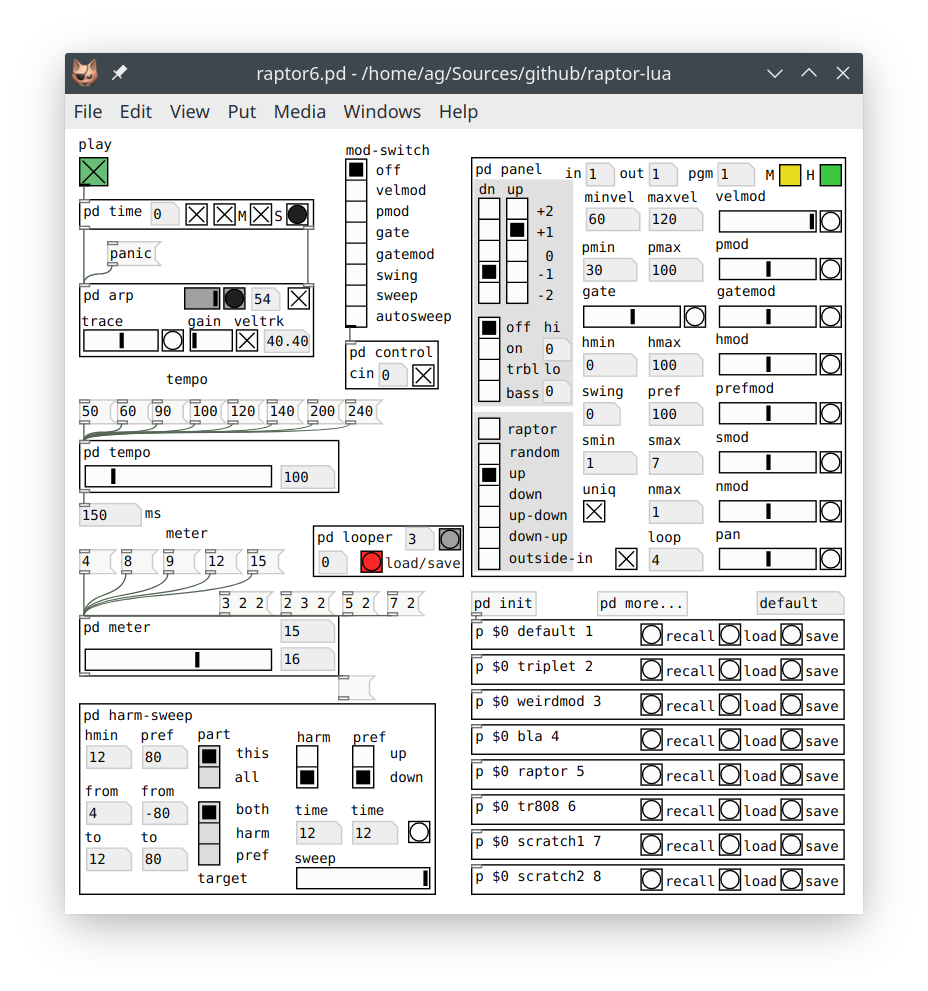
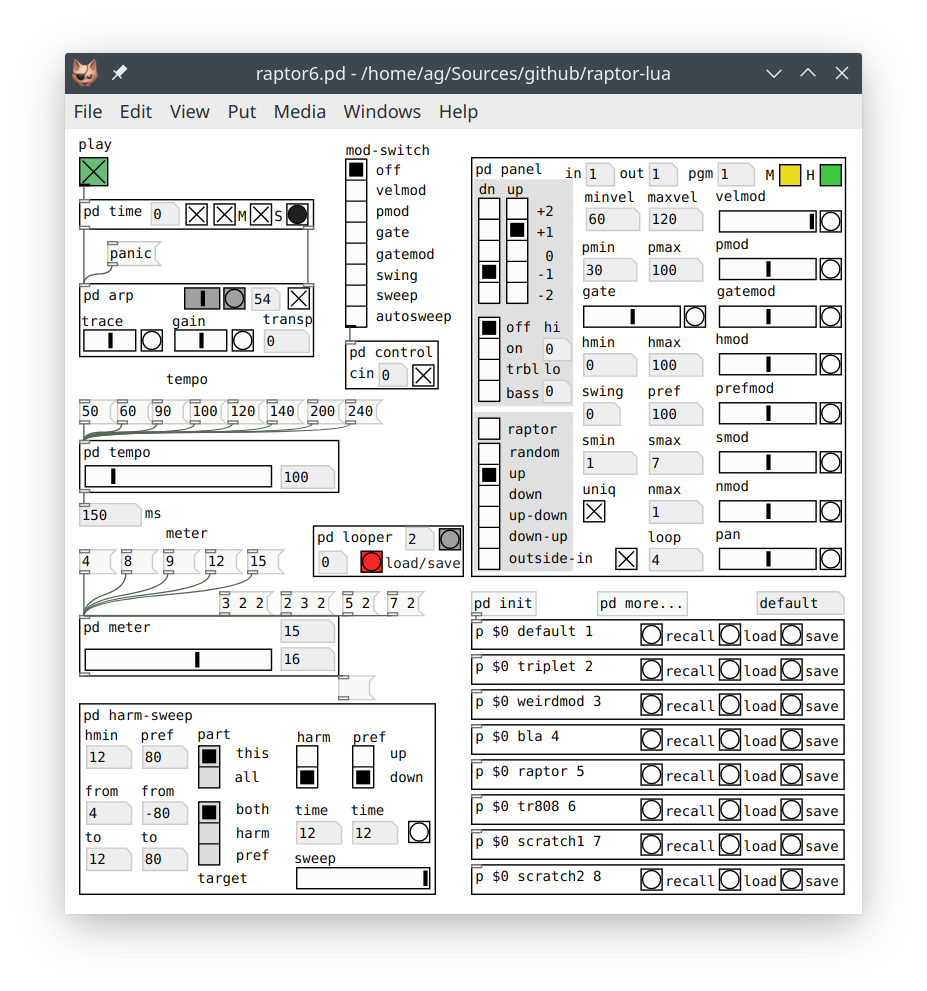
Update documentation.

diff --git a/README.md b/README.md
@@ -31,15 +31,19 @@ Before we go into Raptor's MIDI controls, let's have a quick look at some import
 
 First, in the main patch there's the `mod-switch` control (saved in the patch) which assigns some PACER controls to various different parameters for hands-free operation. Most related controls can be found in the `panel` subpatch; the most prominent of these are the yellow mute toggle (labeled `M`) which mutes the arpeggiator (stops all note output), and the green hold toggle (labeled `H`) which holds all note input in memory, so that the arpeggiator keeps playing the same pattern while this toggle is engaged. These are mostly intended for live control and automation, so they both have MIDI bindings (CC64 and CC67). Of course, you can also operate them in the GUI, but their state is neither saved in the patch nor in presets.
 
-The `mod-switch` control goes into the `control` subpatch which contains the interface to the PACER and some other basic MIDI control functions. This subpatch has a numbox (labeled `cin`) and a toggle (both saved in the patch) which allow you to set Raptor's control input channel, and to enable control input separately for each Raptor instance. By default, the MIDI channel is set to 0 (omni) and control input is enabled. The control input toggle is mostly for interactive usage, if you need to configure control input to individual instances in a multi-Raptor setup. The MIDI channel can be set (and saved) to accommodate your studio or stage setup. E.g., it often makes sense to have all your control inputs, such as the PACER, a fader box, or MIDI automation from your DAW, go into a separate Pd input port, so that normal MIDI input from other devices doesn't accidentally interfere with Raptor's MIDI control. Pd has a set of 16 MIDI channels for each MIDI input, so you can set the control input channel, e.g., to 17 in order to receive control data on channel 1 of the second MIDI input.
+The `mod-switch` control goes into the `control` subpatch which contains the interface to the PACER and some other basic MIDI control functions. This subpatch also has a numbox (labeled `cin`) and a toggle (both saved in the patch) which allow you to set Raptor's control input channel, and to enable control input separately for each Raptor instance. By default, the MIDI channel is set to 0 (omni) and control input is enabled. The control input toggle is mostly for interactive usage, if you need to restrict control input to individual instances in a multi-Raptor setup. The MIDI channel can be set (and saved) to accommodate your studio or stage setup. E.g., it often makes sense to have all your control inputs, such as the PACER, a fader box, or MIDI automation from your DAW, go into a separate Pd input port, so that normal MIDI input from other devices doesn't accidentally interfere with Raptor's MIDI control. Pd has a set of 16 MIDI channels for each MIDI input, so you can set the control input channel, e.g., to 17 in order to receive control data on channel 1 of the second MIDI input.
 
 Next, in the `time` subpatch there are the time master and MIDI clock sync toggles (labeled `M` and `S`, respectively, both saved in the patch), which will be discussed in the section on tempo and time below. There's another (unlabeled) start/stop toggle (not saved) which enables you to start and stop the sequence manually, and a pulse button to trigger individual pulses in a step-wise fashion, which can be useful for debugging purposes. The pulse button also goes red to indicate MIDI clock sync, in which case you better not mess with it to keep Raptor in sync with the time source. Also, the little "anacrusis" numbox on the left will set the pulse offset from the beginning of a bar (counting from zero) when playback starts. This is filled in automatically if your DAW sends song position pointer (SPP) messages, but you can also set it manually (whether using MIDI clock sync or not) if you need to start playback on an upbeat.
 
-Last but not least, there's the `arp` subpatch containing the guts of the arpeggiator itself. You can send a `panic` message to the arpeggiator to kill hanging notes, and switch the metronome tick on and off with the toggle control in the upper-right corner (saved in the patch). A gray slider gives an indication of the pulse strengths, and the gray beat indicator next to it briefly flashes at the beginning of each bar. You'll also notice that this indicator temporarily goes red if you stop the sequence, until the arpeggiator finishes playing the current bar.
+Last but not least, there's the `arp` subpatch containing the guts of the arpeggiator itself. You can send a `panic` message to the arpeggiator to kill hanging notes, and switch the metronome tick on and off with the toggle control in the upper-right corner (saved in the patch). The gray slider displays the pulse strengths, and the gray beat indicator next to it briefly flashes at the beginning of each bar. You'll also notice that this indicator temporarily goes red if you stop the sequence, until the arpeggiator finishes playing the current bar.
 
-**NOTE:** That metronome "tick" does a lot more than just generating clicks. It's actually driven by the pulse strengths and generates notes of varying velocities for a GM drumset on channel 10. The note can be set with the little numbox, saved in the patch, so you can change it if you don't like the default or want to adjust the sound for a change.
+We mention in passing that the metronome "tick" does a lot more than just generating clicks. It's actually driven by the pulse strengths and generates notes of varying velocities for a GM drumset on channel 10. The note can be set with the little numbox, saved in the patch, so you can change it if you don't like the default or want to adjust the sound for a change.
 
-In the second row you find the `trace` control (saved in the patch) which changes the amount of time that incoming note-offs are delayed. This produces a kind of "legato" effect, making notes stick around a little longer while you're changing chords. The slider goes from 0 to 600 ms and should be adjusted to your playing style, the default being 300 ms (the button to the right resets to that value); setting it to zero disables this feature. There's also a `gain` control which sets the input gain of the *velocity tracker*, which can be enabled or disabled with the `veltrk` toggle (saved in the patch). The velocity tracker calculates a kind of envelope from the velocities of the notes that you play and adjusts the velocities of output notes generated by the arpeggiator accordingly, so that they follow your performance. The current envelope value is displayed in the number box to the right of the toggle, and can also be changed manually there if needed. Alternatively, the `gain` control, which is bound to the MIDI volume controller (CC7) and also stored in presets, allows you to boost the envelope value on the fly if needed. This is a quick remedy if your MIDI controller produces very low velocities, as some controllers do, or you could also use it as an expression control. But note that the `gain` value is just for amplification, not attenuation; changing the envelope value in the numbox goes both ways.
+In the second row you find some options affecting note input and output. First, the `trace` control (saved in the patch) changes the amount of time that incoming note-offs are delayed. This produces a kind of "legato" effect, making notes stick around a little longer while you're changing chords. The slider goes from 0 to 600 ms and should be adjusted to your playing style; the default is 300 ms, setting it to zero disables this feature.
+
+Second, the `gain` control ties in with the *velocity tracker*, a function which calculates a kind of envelope from the velocities of the notes that you play and adjusts the velocities of output notes generated by the arpeggiator accordingly, so that they follow your performance. Normally, this value actually controls the mix between preset velocity values (`minvel`, `maxvel`) and the calculated envelope, and ranges from 0 (all envelope) to 127 (all preset). However, during loop playback it becomes a real gain control which changes the output velocities by -3 to +3 dB (half to double velocity). The `gain` control is bound to the MIDI volume controller (CC7) and also stored in presets. Both `trace` and `gain` also have buttons to quickly reset them to their default center values.
+
+Third, the `transp` control (which also has a MIDI binding and is stored in presets) lets you transpose the note output by a given number of semitones.
 
 Finally, hidden away at the bottom of the `arp` subpatch you'll find two additional toggles, `bend` and `touch` (both saved in the patch), which determine whether to pass through pitch bend and aftertouch (a.k.a. channel pressure) messages from MIDI input to output. As shipped, pass-through is enabled for pitch bend and disabled for aftertouch, but you can change this to whatever you like if you open that subpatch.
 
@@ -88,9 +92,9 @@ Most of Raptor's parameters have MIDI bindings, so they can be automatized, e.g.
 
 ## The Arpeggiator
 
-Raptor's note generation process is driven by quite a few parameters, but the gist of it lies in two basic "musiquantical" notions and corresponding measures from Barlow's theories: *meter* (which determines a kind of one-to-one pulse weights called *indispensabilities*) and *harmonicity* (a measure for the consonance of intervals calculated from so-called *indigestibilities*). In fact, there are a lot of similarities between Raptor and Barlow's famous [Autobusk][] program which is based on the same concepts. Both programs operate in real-time, but while Autobusk is driven exclusively by parameter input (and also has an off-line mode in which it is driven by a score consisting of parameter automation curves), Raptor always reacts to live note input from the musician. In a way, Raptor is the illegitimate child of Autobusk and an arpeggiator. ;-)
+Raptor's note generation process is driven by quite a few parameters, but the gist of it lies in two basic "musiquantical" notions and corresponding measures from Barlow's theories: *meter* (which determines a kind of one-to-one pulse weights called *indispensabilities*) and *harmonicity* (a measure for the consonance of intervals calculated from so-called *indigestibilities*). In fact, there are a lot of similarities between Raptor and Barlow's famous [Autobusk][] program which is based on the same concepts. Both programs can operate in real-time, but while Autobusk is driven exclusively by parameter input and will happily produce a constant stream of notes as soon as you turn it on, Raptor never becomes "creative" on its own. It *always* requires note input, otherwise it will just sit there twiddling its thumbs. In a way, Raptor is the illegitimate child of Autobusk and an arpeggiator. ;-)
 
-Thus, in Raptor harmonicities are used to *order* and *filter* candidate notes in relation to Raptor's note input (the notes you play); i.e., they determine *which* notes to play. In contrast, the pulse weights are used to assign various parameters to each step in the pattern, such as note velocities and probabilities, swing and gate values; i.e., they determine *how* to play the notes. The arpeggiator puts everything together, taking note input from the musician, feeding the required data in each step to the various parts of the algorithm, and playing back the resulting stream of notes.
+Thus, in Raptor harmonicities are used to *filter* and *choose* candidate notes in relation to its note input (the notes you play); i.e., they determine *what* to play. In contrast, the pulse weights are used to assign various parameters to each step in the pattern, such as note velocities and probabilities, swing and gate values; i.e., they determine *how* to play the notes picked by the filter. The arpeggiator puts everything together, taking note input from the musician, feeding the required data to the various parts of the algorithm, and playing back the resulting stream of notes.
 
 One rather unusual feature of Raptor's algorithm is the way that the Barlow indispensabilities drive the entire process by modulating various other parameters. Like in Autobusk, the pulse strengths affect note velocity and probability, but in Raptor they also modulate harmonicity and thereby change the note selection process itself. Another unique feature of the algorithm is the harmonic preference parameter, which lets you prioritize notes by harmonicity, and can also be modulated by pulse strength in an automatic fashion.
 
@@ -120,7 +124,7 @@ Normally, an arpeggiator sequences exactly the notes you play, over a range of d
 
 Like the standard arpeggiator, raptor mode works on a set of *candidate notes* from which the output notes are selected, but instead of the notes that you play it uses a full range of semitones instead, which is determined using input notes and octave range. As the octave range is often too coarse in raptor mode, this range can be further adjusted with the `lo` and `hi` values in the panel (typically, `lo` will be negative or zero, `hi` positive or zero, to extend the range as needed). The corresponding section of the panel also contains a radio button which gives you a choice between different voicings: `off` just ignores `lo` and `hi` which gives a voicing consistent with non-raptor mode; `on` also applies the `lo` and `hi` values to give a full range of notes; `treble` and `bass` do the same, but restrict the voicing to the treble and bass register by computing a range based on only the highest and the lowest input note, respectively.
 
-Raptor then filters the candidate notes, getting rid of notes which don't satisfy the harmonicity and various other constraints. To these ends, you can specify a range of harmonicities (`hmin`, `hmax`), as well as a corresponding bias (`hmod`) which is used to vary the actual harmonicities with the pulse strengths. Eligible step sizes for the generated pattern (i.e., intervals measured in semitones between the notes in successive steps) can be specified with the `smin` and `smax` parameters, and you can also tell Raptor how many notes to generate in each step with the `nmax` parameter. As with all the other note generation parameters, these values can be modulated according to the current pulse strength using the corresponding bias values (`smod`, `nmod`).
+Raptor then filters the candidate notes, getting rid of notes which don't satisfy the harmonicity and various other constraints. To these ends, you specify a range of harmonicities (`hmin`, `hmax`), as well as a corresponding bias (`hmod`) which is used to vary the actual harmonicities with the pulse strengths. Eligible step sizes for the generated pattern (i.e., intervals measured in semitones between the notes in successive steps) can be specified with the `smin` and `smax` parameters, and you can also tell Raptor how many notes to generate in each step with the `nmax` parameter. As with all the other note generation parameters, these values can be modulated according to the current pulse strength using the corresponding bias values (`smod`, `nmod`).
 
 Last but not least, there is the parameter of harmonic *preference* (`pref`) which determines how much harmonious notes are to be preferred among all the eligible candidate notes which remain after the filtering process. The preference value can also be negative which lets you prefer *low* harmonicities in order to produce anti-tonal patterns. Again, the parameter can also be modulated through the corresponding bias value (`prefmod`), so that the preference changes with pulse strength (for instance, this lets you produce patterns with less harmonious notes only on the weak pulses). This parameter can be *very* effective when used with the right choice of `hmin` and `hmax` values.
 
